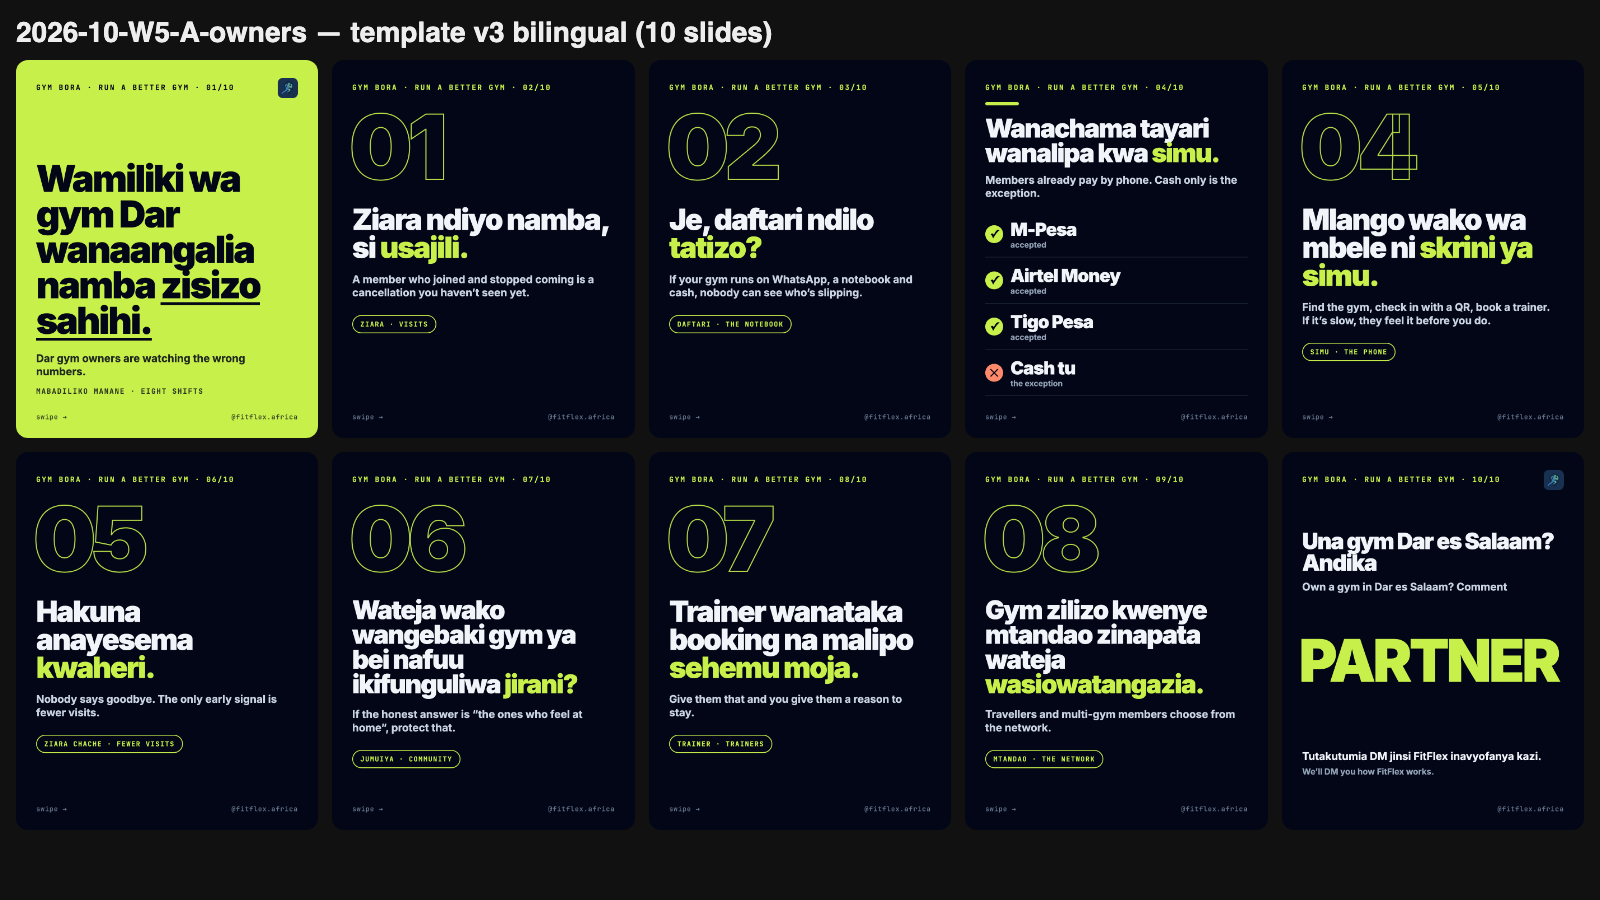
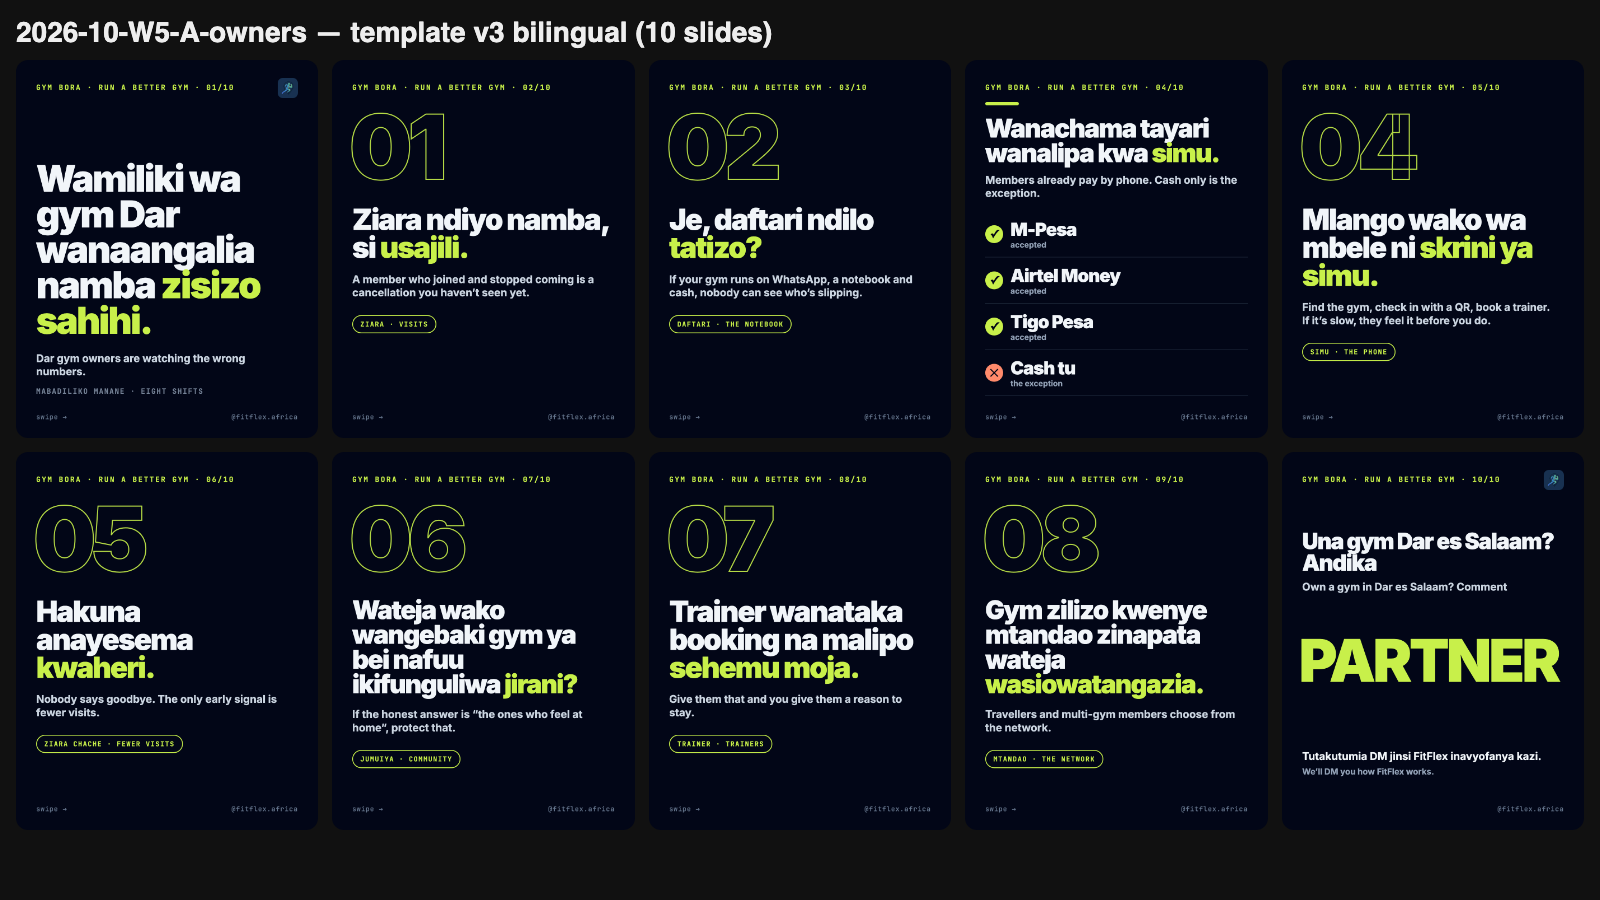
fix(social): v3 cover can be dark; eight-shifts cover dark to alternate with Thursday's Volt cover

Changed region(s): [[0.0, 0.0622, 0.2188, 0.4978]]

diff --git a/social/content/2026-10-W5-A-owners/source/E01.html b/social/content/2026-10-W5-A-owners/source/E01.html
@@ -1,16 +1,16 @@
 <!doctype html><html><head><meta charset="utf-8"><style>
  @font-face{font-family:Inter;font-weight:700;src:url("file:///Users/chollo/FitFlex-worktrees/social-phase1/social/brand/fonts/Inter-700.ttf")}@font-face{font-family:Inter;font-weight:800;src:url("file:///Users/chollo/FitFlex-worktrees/social-phase1/social/brand/fonts/Inter-800.ttf")}@font-face{font-family:Inter;font-weight:900;src:url("file:///Users/chollo/FitFlex-worktrees/social-phase1/social/brand/fonts/Inter-900.ttf")}
  @font-face{font-family:Mono;font-weight:700;src:url("file:///Users/chollo/FitFlex-worktrees/social-phase1/social/brand/fonts/JetBrainsMono-700.ttf")}@font-face{font-family:Mono;font-weight:500;src:url("file:///Users/chollo/FitFlex-worktrees/social-phase1/social/brand/fonts/JetBrainsMono-500.ttf")}
- *{box-sizing:border-box;margin:0}body{width:1080px;height:1350px;overflow:hidden;font-family:Inter,sans-serif;position:relative;background:#C8F04A;color:#020617}
- .eyebrow{position:absolute;top:80px;left:72px;font-family:Mono;font-weight:700;font-size:26px;letter-spacing:.18em;text-transform:uppercase;color:#020617}
+ *{box-sizing:border-box;margin:0}body{width:1080px;height:1350px;overflow:hidden;font-family:Inter,sans-serif;position:relative;background:#020617;color:#F1F5F9}
+ .eyebrow{position:absolute;top:80px;left:72px;font-family:Mono;font-weight:700;font-size:26px;letter-spacing:.18em;text-transform:uppercase;color:#C8F04A}
  .logo{position:absolute;top:64px;right:72px;width:72px;height:72px;border-radius:18px}
- .handle{position:absolute;bottom:60px;right:72px;font-family:Mono;font-weight:500;font-size:24px;letter-spacing:.06em;color:#020617;opacity:0.7}
- .swipe{position:absolute;bottom:60px;left:72px;font-family:Mono;font-weight:500;font-size:24px;letter-spacing:.06em;color:#020617;opacity:0.7}
- h1{font-weight:900;line-height:.96;letter-spacing:-.045em}h1 em{font-style:normal;color:#020617;text-decoration:underline;text-decoration-thickness:10px;text-underline-offset:14px}
- .en{font-size:38px;font-weight:700;line-height:1.25;color:#020617;opacity:0.85}
+ .handle{position:absolute;bottom:60px;right:72px;font-family:Mono;font-weight:500;font-size:24px;letter-spacing:.06em;color:#64748B;opacity:1}
+ .swipe{position:absolute;bottom:60px;left:72px;font-family:Mono;font-weight:500;font-size:24px;letter-spacing:.06em;color:#64748B;opacity:1}
+ h1{font-weight:900;line-height:.96;letter-spacing:-.045em}h1 em{font-style:normal;color:#C8F04A;}
+ .en{font-size:38px;font-weight:700;line-height:1.25;color:#CBD5E1;opacity:1}
  .numeral{position:absolute;top:150px;left:60px;font-weight:900;font-size:320px;line-height:1;letter-spacing:-.06em;color:transparent;-webkit-text-stroke:4px #C8F04A;opacity:.9}
  .chip{display:inline-block;padding:14px 26px;border-radius:999px;border:3px solid #C8F04A;color:#C8F04A;font-family:Mono;font-weight:700;font-size:24px;letter-spacing:.12em;text-transform:uppercase}
  .row{display:flex;align-items:center;gap:26px;padding:26px 0;border-bottom:2px solid #1E293B}.row .mark{width:64px;height:64px;border-radius:50%;display:flex;align-items:center;justify-content:center;font-weight:900;font-size:40px}.row .t{font-weight:900;font-size:64px;letter-spacing:-2px}.row .t small{display:block;font-weight:700;font-size:28px;letter-spacing:0;color:#94A3B8}
  .card{position:absolute;left:72px;right:72px;top:300px;background:#0F172A;border:2px solid #1E293B;border-radius:36px;padding:64px}
  .bar{position:absolute;left:72px;top:150px;width:120px;height:12px;border-radius:6px;background:#C8F04A}
- </style></head><body><div class="eyebrow">Gym bora · run a better gym · 01/10</div><img class="logo" src="file:///Users/chollo/FitFlex-worktrees/social-phase1/social/brand/assets/fitflex-logo.png"><div style="position:absolute;left:72px;right:72px;top:360px"><h1 style="font-size:132px">Wamiliki wa gym Dar wanaangalia namba <em>zisizo sahihi.</em></h1><div class="en" style="margin-top:48px;max-width:880px">Dar gym owners are watching the wrong numbers.</div></div><div style="position:absolute;left:72px;right:72px;bottom:150px;font-family:Mono;font-weight:700;font-size:26px;letter-spacing:.12em;text-transform:uppercase;color:#020617;opacity:.8">Mabadiliko manane · eight shifts</div><div class="swipe">swipe →</div><div class="handle">@fitflex.africa</div></body></html>
+ </style></head><body><div class="eyebrow">Gym bora · run a better gym · 01/10</div><img class="logo" src="file:///Users/chollo/FitFlex-worktrees/social-phase1/social/brand/assets/fitflex-logo.png"><div style="position:absolute;left:72px;right:72px;top:360px"><h1 style="font-size:132px">Wamiliki wa gym Dar wanaangalia namba <em>zisizo sahihi.</em></h1><div class="en" style="margin-top:48px;max-width:880px">Dar gym owners are watching the wrong numbers.</div></div><div style="position:absolute;left:72px;right:72px;bottom:150px;font-family:Mono;font-weight:700;font-size:26px;letter-spacing:.12em;text-transform:uppercase;color:#94A3B8;opacity:.8">Mabadiliko manane · eight shifts</div><div class="swipe">swipe →</div><div class="handle">@fitflex.africa</div></body></html>

diff --git a/social/tools/render-carousel.js b/social/tools/render-carousel.js
@@ -143,7 +143,7 @@ function htmlV3(i, sl) {
   const n = slides.length; const kind = sl.kind || 'rule'; const num = String(i + 1).padStart(2, '0');
   const eyebrow = `${spec.eyebrow || ''} · ${num}/${String(n).padStart(2, '0')}`;
   const onVolt = V2.onVolt, volt = V2.volt;
-  const dark = kind !== 'cover';
+  const dark = kind !== 'cover' || sl.ground === 'dark'; // a v3 cover is Volt unless the spec says ground: 'dark' (covers alternate across posts)
   const logo = (i === 0 || i === n - 1) ? `<img class="logo" src="${LOGO}">` : '';
   const head = `<!doctype html><html><head><meta charset="utf-8"><style>
  @font-face{font-family:Inter;font-weight:700;src:url("${FONTS}/Inter-700.ttf")}@font-face{font-family:Inter;font-weight:800;src:url("${FONTS}/Inter-800.ttf")}@font-face{font-family:Inter;font-weight:900;src:url("${FONTS}/Inter-900.ttf")}
@@ -162,7 +162,7 @@ function htmlV3(i, sl) {
  .bar{position:absolute;left:72px;top:150px;width:120px;height:12px;border-radius:6px;background:${volt}}
  </style></head><body>`;
   let body = '';
-  if (kind === 'cover') body = `<div class="eyebrow">${eyebrow}</div>${logo}<div style="position:absolute;left:72px;right:72px;top:360px"><h1 style="font-size:${sl.size || 132}px">${sl.h}</h1>${sl.en ? `<div class="en" style="margin-top:48px;max-width:880px">${sl.en}</div>` : ''}</div>${sl.s ? `<div style="position:absolute;left:72px;right:72px;bottom:150px;font-family:Mono;font-weight:700;font-size:26px;letter-spacing:.12em;text-transform:uppercase;color:${onVolt};opacity:.8">${sl.s}</div>` : ''}`;
+  if (kind === 'cover') body = `<div class="eyebrow">${eyebrow}</div>${logo}<div style="position:absolute;left:72px;right:72px;top:360px"><h1 style="font-size:${sl.size || 132}px">${sl.h}</h1>${sl.en ? `<div class="en" style="margin-top:48px;max-width:880px">${sl.en}</div>` : ''}</div>${sl.s ? `<div style="position:absolute;left:72px;right:72px;bottom:150px;font-family:Mono;font-weight:700;font-size:26px;letter-spacing:.12em;text-transform:uppercase;color:${dark ? V2.muted : onVolt};opacity:.8">${sl.s}</div>` : ''}`;
   else if (kind === 'rule') body = `<div class="eyebrow">${eyebrow}</div>${logo}<div class="numeral">${sl.num || num}</div><div style="position:absolute;left:72px;right:72px;top:520px"><h1 style="font-size:${sl.size || 104}px">${sl.h}</h1>${sl.en ? `<div class="en" style="margin-top:40px;max-width:900px">${sl.en}</div>` : ''}${sl.chip ? `<div style="margin-top:56px"><span class="chip">${sl.chip}</span></div>` : ''}</div>`;
   else if (kind === 'check') { const rows = (sl.rows || []).map(r => `<div class="row"><div class="mark" style="background:${r.ok === false ? V2.fuel : volt};color:${onVolt}">${r.ok === false ? '✕' : '✓'}</div><div class="t">${r.t}${r.en ? `<small>${r.en}</small>` : ''}</div></div>`).join('');
     body = `<div class="eyebrow">${eyebrow}</div>${logo}<div class="bar"></div><div style="position:absolute;left:72px;right:72px;top:200px"><h1 style="font-size:${sl.size || 92}px">${sl.h}</h1>${sl.en ? `<div class="en" style="margin-top:28px">${sl.en}</div>` : ''}</div><div style="position:absolute;left:72px;right:72px;top:${sl.top || 600}px">${rows}</div>`; }
